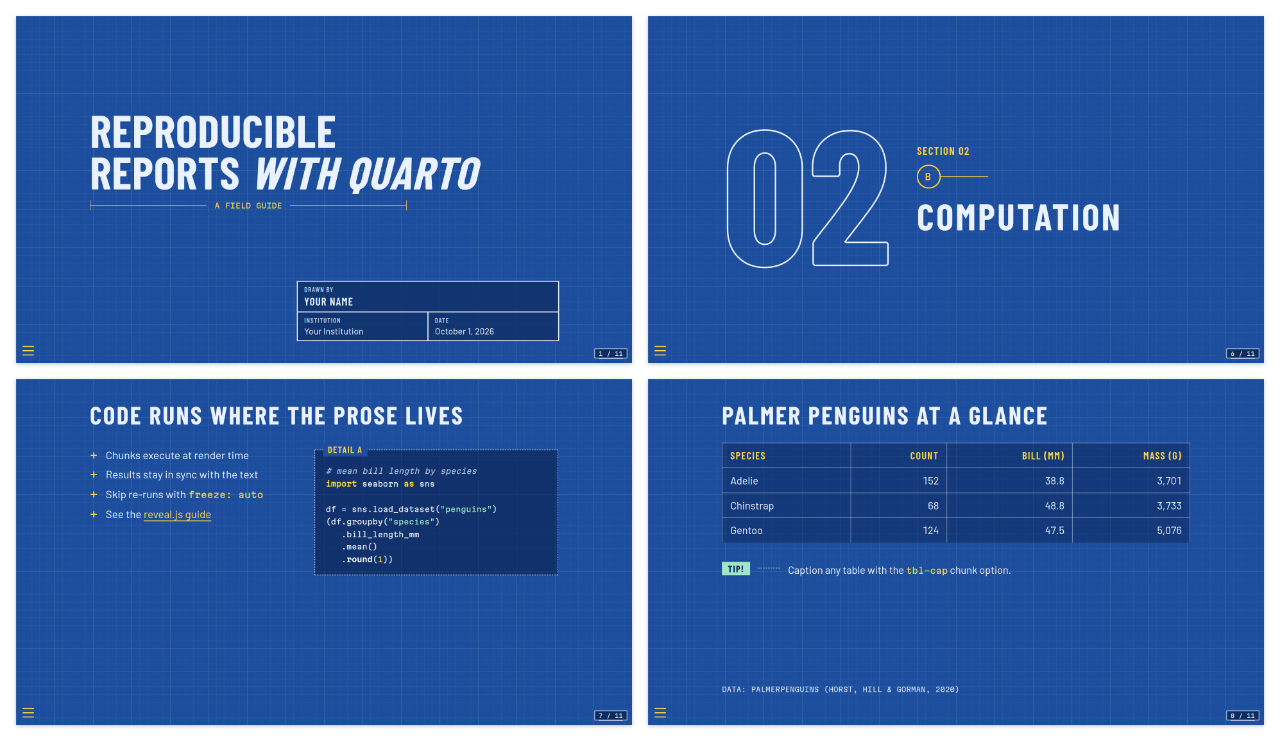
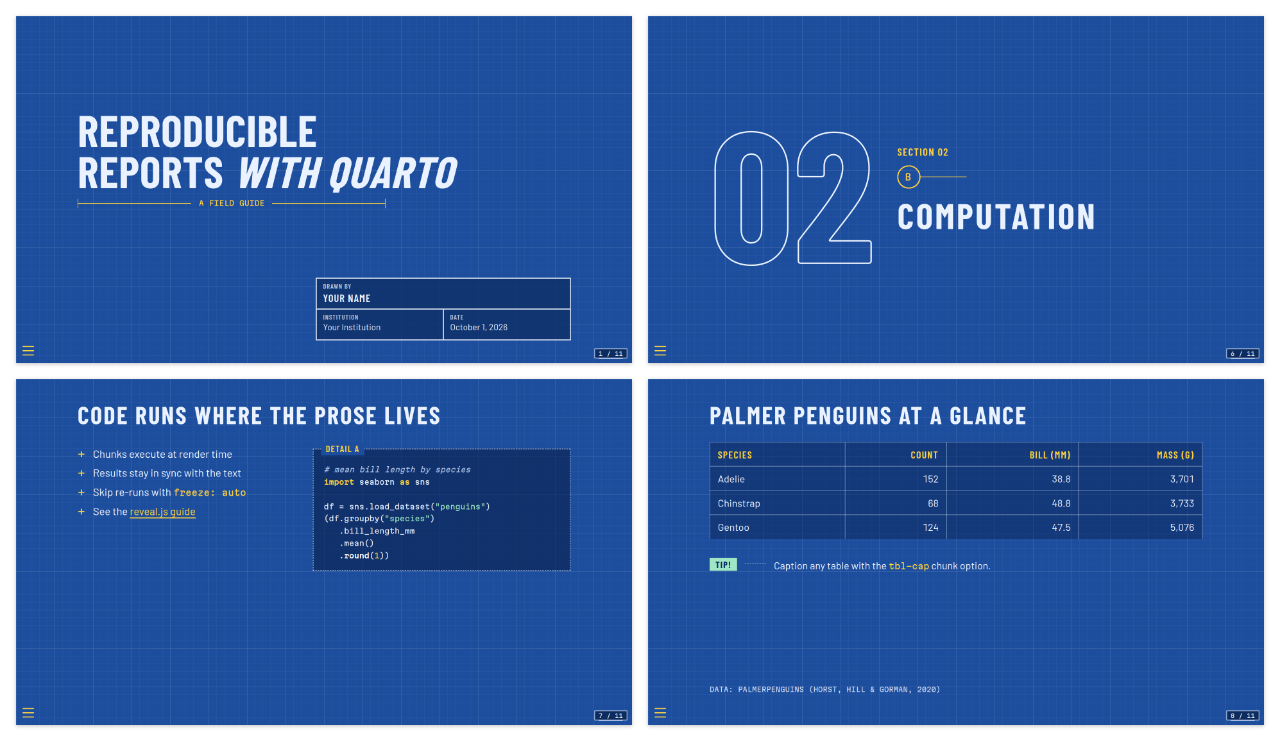
blueprint: align the background grid with the slides at any window size
The grid was drawn on the viewport in screen pixels, so it drifted against
the scaled, centred slides. It now scales with --slide-scale and is anchored
to the slide's top-left corner using the variables reveal.js sets on resize.

The slide size is now 1120x720 (14x9 major cells) and the slide padding,
aside and section-slide gap use 48px, so the content edges sit on grid
lines. Title block borders are centred on their cell edges with 64px rows,
so its outline lands on the grid as well.

Claude-Session: https://claude.ai/code/session_01QTGCby9t75pAj6bN5TkGza

diff --git a/_extensions/blueprint/blueprint.scss b/_extensions/blueprint/blueprint.scss
@@ -4,7 +4,9 @@
 // Technical drawing on cyanotype blue: a faint 16/80 px grid, dimension
 // lines, a title block on the cover and detail callouts on code.
 //
-// px values below are in slide pixels (default 1050x700) and scale with the deck.
+// px values below are in slide pixels (1120x720, set in _extension.yml) and
+// scale with the deck. The slide is 14x9 major grid cells, so keep paddings
+// and fixed sizes on multiples of 16px to stay on the grid.
 
 @import url('https://fonts.googleapis.com/css2?family=Barlow+Condensed:wght@600;700&family=Barlow:ital,wght@0,400;0,500;1,400&family=Martian+Mono:wght@400;600&display=swap');
 
@@ -53,14 +55,30 @@ $code-bg: transparent !default;
   text-transform: uppercase;
 }
 
-// grid paper
+// grid paper, scaled with the slides and anchored to the slide's top-left
+// corner, so it lines up with the content at any window size. reveal.js keeps
+// the slides centred in the viewport and sets these variables on every resize.
+$bp-grid-major: 80px;
+$bp-grid-minor: 16px;
+
 .reveal-viewport {
+  --bp-scale: var(--slide-scale, 1);
+  --bp-major: calc(#{$bp-grid-major} * var(--bp-scale));
+  --bp-minor: calc(#{$bp-grid-minor} * var(--bp-scale));
+  --bp-x: calc((var(--viewport-width, 100vw) - var(--slide-width, 1120px) * var(--bp-scale)) / 2);
+  --bp-y: calc((var(--viewport-height, 100vh) - var(--slide-height, 720px) * var(--bp-scale)) / 2);
+
   background-image:
     linear-gradient(rgba(#FFF, 0.14) 1px, transparent 1px),
     linear-gradient(90deg, rgba(#FFF, 0.14) 1px, transparent 1px),
     linear-gradient(rgba(#FFF, 0.06) 1px, transparent 1px),
     linear-gradient(90deg, rgba(#FFF, 0.06) 1px, transparent 1px);
-  background-size: 80px 80px, 80px 80px, 16px 16px, 16px 16px;
+  background-size:
+    var(--bp-major) var(--bp-major),
+    var(--bp-major) var(--bp-major),
+    var(--bp-minor) var(--bp-minor),
+    var(--bp-minor) var(--bp-minor);
+  background-position: var(--bp-x) var(--bp-y);
 }
 
 .reveal .slides {
@@ -70,7 +88,7 @@ $code-bg: transparent !default;
   section#title-slide {
     box-sizing: border-box;
     height: 100%;
-    padding: 46px 52px;
+    padding: 48px;
   }
 }
 
@@ -147,8 +165,8 @@ $code-bg: transparent !default;
 }
 
 .reveal .slide aside {
-  left: 52px;
-  bottom: 46px;
+  left: 48px;
+  bottom: 48px;
   font-family: $font-family-monospace;
   font-size: 14px;
   text-transform: uppercase;
@@ -366,7 +384,11 @@ $code-bg: transparent !default;
   .date {
     display: flex;
     flex-direction: column;
-    margin: 0 -2px -2px 0; // overlap neighbouring borders
+    box-sizing: border-box;
+    // centre the 2px borders on the cell edges, so neighbouring borders overlap
+    // and the outer ones sit on the grid; each row is 64px (4 grid cells)
+    min-height: 66px;
+    margin: -1px;
     padding: 7px 13px;
     border: 2px solid $bp-line;
     background: rgba($bp-deep, 0.7);
@@ -422,7 +444,7 @@ $code-bg: transparent !default;
     display: flex !important;
   }
   align-items: center;
-  gap: 52px;
+  gap: 48px;
 
   &::before {
     content: counter(bp-section, decimal-leading-zero);
